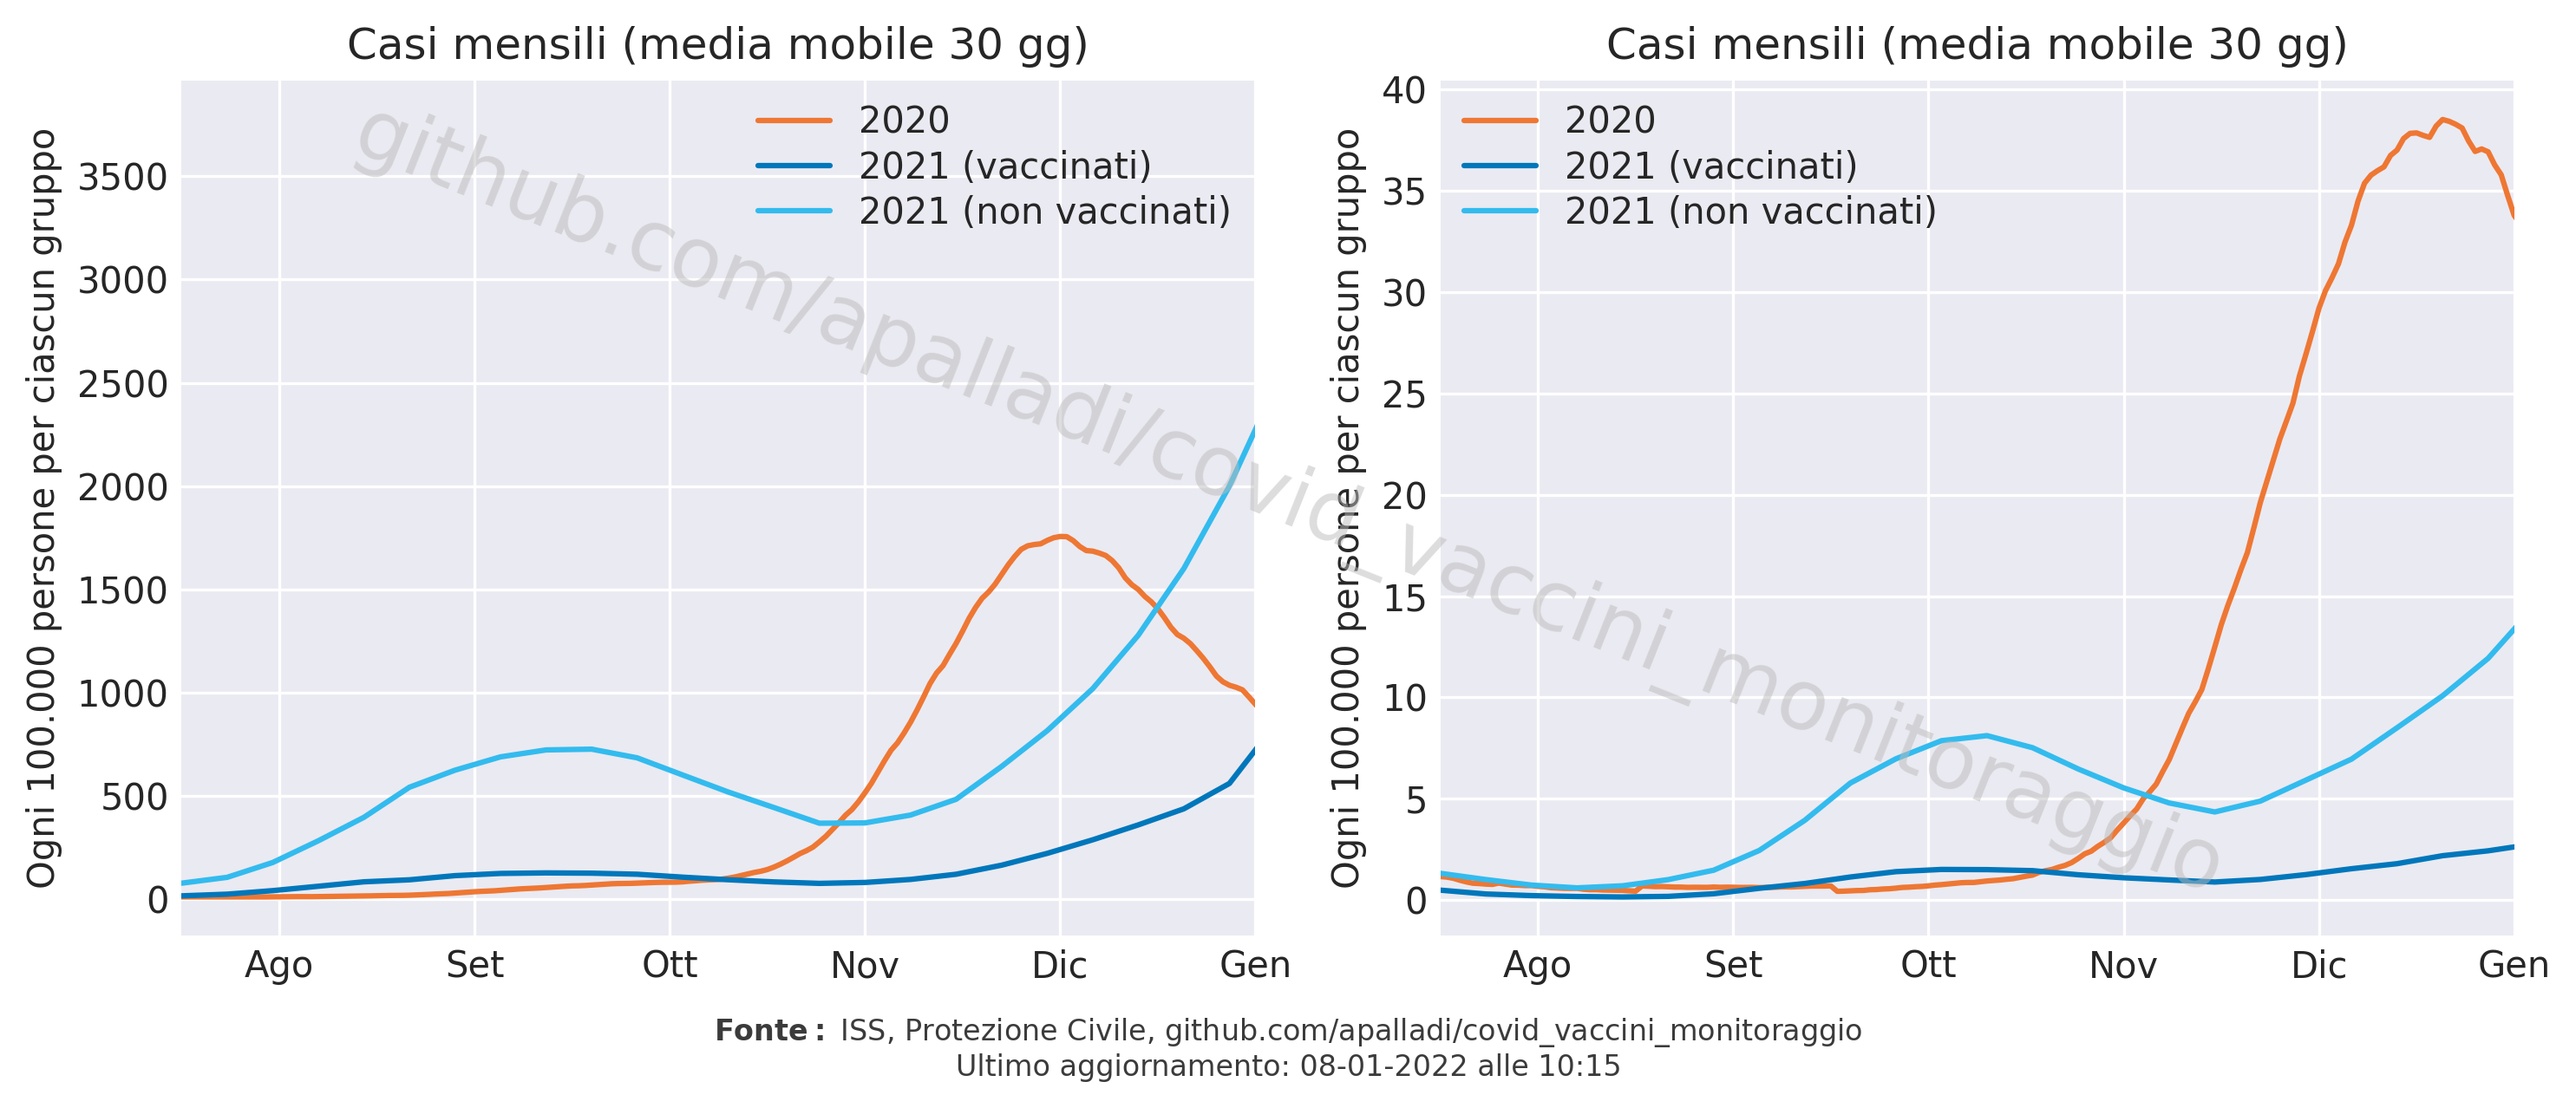
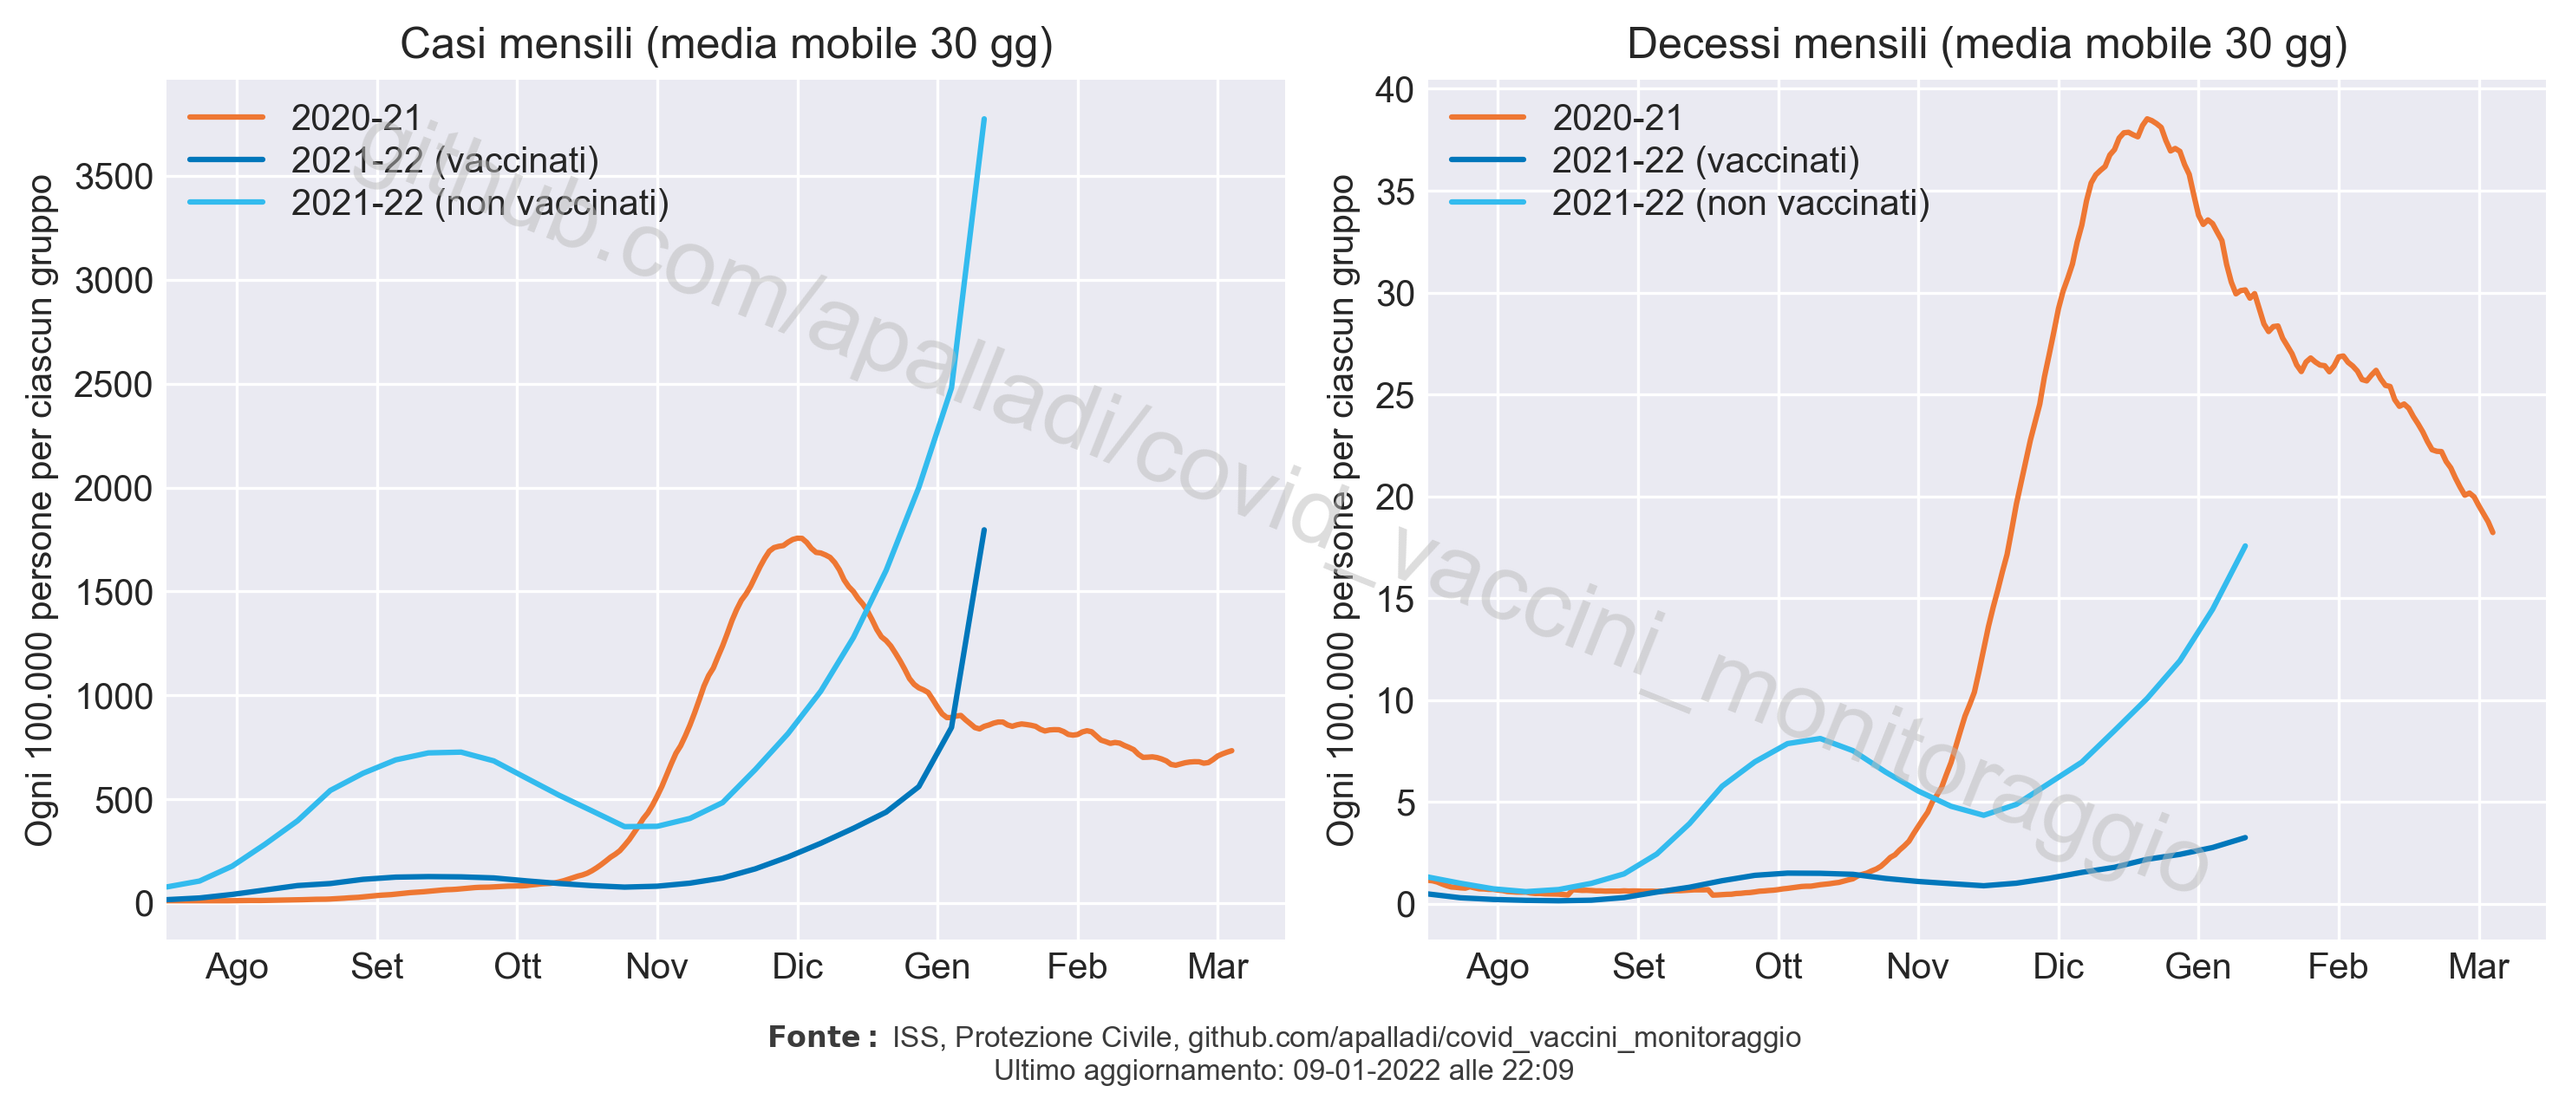
Corretto titolo confronto 2020-2021

diff --git a/scripts/confronto_2020_2021.py b/scripts/confronto_2020_2021.py
@@ -10,8 +10,8 @@ from custom.plots import apply_plot_treatment
 from custom.preprocessing_dataframe import compute_incidence, date_parser
 from custom.watermarks import add_last_updated, add_watermark
 
-x_label1 = np.arange(15, 170, 30)
-x_label2 = ["Ago", "Set", "Ott", "Nov", "Dic", "Gen"]
+x_label1 = np.arange(15, 230, 30)
+x_label2 = ["Ago", "Set", "Ott", "Nov", "Dic", "Gen", "Feb", "Mar"]
 
 
 # Importa dati
@@ -42,8 +42,7 @@ def get_epidemic_data_2020():
     # Casi e decessi 2020
     abitanti_over12 = 540*10**5
 
-    mask_2020 = (df_IT.index >= "2020-06-15") & (df_IT.index <= "2020-12-31")
-    df_2020 = df_IT[mask_2020]
+    df_2020 = df_IT.loc["2020-06-15":"2021-02-28"]
     df_2020 = df_2020[["totale_casi",
                        "deceduti"]].diff().rolling(window=30).mean()
     df_2020 = df_2020*30/(abitanti_over12/(10**5))
@@ -64,13 +63,13 @@ def get_epidemic_data_2021():
     return casi_2021_vacc, casi_2021_novacc, dec_2021_vacc, dec_2021_novacc
 
 
-def which_axe(ax):
+def which_axe(ax, title="Casi"):
     "Imposta proprietà grafici"
     ax.set_xticks(x_label1, x_label2)
-    ax.set_title("Casi mensili (media mobile 30 gg)")
+    ax.set_title(f"{title} mensili (media mobile 30 gg)")
     ax.set_ylabel("Ogni 100.000 persone per ciascun gruppo")
     ax.legend()
-    ax.set_xlim(0, 165)
+    ax.set_xlim(0, )
     ax.grid()
 
 
@@ -86,15 +85,15 @@ def plot_confronto_2020_2021(show=False):
     fig, ax = plt.subplots(nrows=1, ncols=2, figsize=(10, 4))
     axes = ax.ravel()
 
-    axes[0].plot(xgrid_2020, casi_2020, label="2020")
-    axes[0].plot(xgrid_2021, casi_2021_vacc, label="2021 (vaccinati)")
-    axes[0].plot(xgrid_2021, casi_2021_novacc, label="2021 (non vaccinati)")
+    axes[0].plot(xgrid_2020, casi_2020, label="2020-21")
+    axes[0].plot(xgrid_2021, casi_2021_vacc, label="2021-22 (vaccinati)")
+    axes[0].plot(xgrid_2021, casi_2021_novacc, label="2021-22 (non vaccinati)")
     which_axe(axes[0])
 
-    axes[1].plot(xgrid_2020, dec_2020, label="2020")
-    axes[1].plot(xgrid_2021, dec_2021_vacc, label="2021 (vaccinati)")
-    axes[1].plot(xgrid_2021, dec_2021_novacc, label="2021 (non vaccinati)")
-    which_axe(axes[1])
+    axes[1].plot(xgrid_2020, dec_2020, label="2020-21")
+    axes[1].plot(xgrid_2021, dec_2021_vacc, label="2021-22 (vaccinati)")
+    axes[1].plot(xgrid_2021, dec_2021_novacc, label="2021-22 (non vaccinati)")
+    which_axe(axes[1], title="Decessi")
 
     # Add watermarks
     add_watermark(fig)
